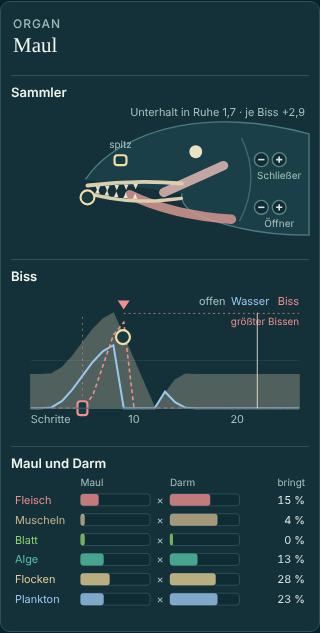
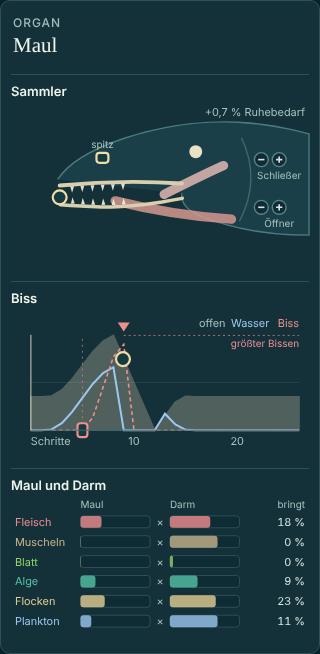
Entwurf: Unterhalt in den Kopfzeilen als Anteil am Ruhebedarf (Maul, Kiemen, Seitenflossen, Schwimmblase); erfundene Preise je Biss und Schlag entfernt (LEITLINIE 5)
Claude-Session: https://claude.ai/code/session_01SAD6gcsuZjdDe9bFzLa7Yk

diff --git a/entwuerfe/inspektoren.html b/entwuerfe/inspektoren.html
@@ -1161,6 +1161,13 @@ const tail = {
 };
 const SWIM = 200, STEPS = 300, MOST_CELLS = 8;
 const forceOf = f => .4 * Math.pow(2.5 / .4, f);
+// Upkeep as a share of a grown fish's rest need (0,0333 a step, physiology.hh:42–50): a muscle
+// group of strength n/16 has tissue 4·n/16 and costs .0004 × fibre upkeep (1,2 slow … 0,3 fast)
+// per unit (body_plan.cc:50–58, brain_interface.hh:164); bladder, gland, pigment and spines
+// count their strength only.
+const upkeepOf = f => 1.2 * Math.pow(.3 / 1.2, f);
+const restPct = x => 100 * x / .06;
+const musclePct = (n, f) => restPct(.0004 * upkeepOf(f) * n / 4);
 const fibreColour = f => { const lo = [184, 68, 63], hi = [242, 235, 226]; return 'rgb(' + lo.map((v, i) => Math.round(v + (hi[i] - v) * f)).join(',') + ')'; };
 const driveOf = (n, c) => c <= n.gate ? 0 : Math.tanh(3 * (c - n.gate)) / Math.tanh(3 * (1 - n.gate));
 // A bundle's force and its fast fibres' reserve: pulling for SWIM steps, then resting.
@@ -1804,7 +1811,7 @@ const BLADFILM = {fish : null};
 function drawBladder() {
   const svg = document.getElementById('bladfish'); svg.replaceChildren();
   const B = BLAD, redraw = drawBladder, c = B.cap;
-  txt(svg, 296, 12, `Unterhalt ${fmt(.0004 * c * 1000)} ‰ · Gewicht +${fmt(.7 * c)} %`, {'text-anchor' : 'end'});
+  txt(svg, 296, 12, `+${fmt(restPct(.0004 * c))} % Ruhebedarf · +${fmt(.7 * c)} % Gewicht`, {'text-anchor' : 'end'});
   const body = el('g', {transform : 'translate(30 14) scale(.86 .9)'}, svg);
   el('path', {d : BODY, fill : '#1b3f48', stroke : '#4a7c7e', 'vector-effect' : 'non-scaling-stroke', 'stroke-width' : 1.4}, body);
   el('circle', {cx : 30, cy : 52, r : 3.2, fill : '#e9e2c6'}, body);
@@ -1899,10 +1906,10 @@ function drawGills() {
   const svg = document.getElementById('gillhead'); svg.replaceChildren();
   const G = GILL, redraw = drawGills, d = G.density;
   const pump = Math.min(1, 2 * effForce(G.cells * forceOf(G.fast)));
-  const rest = G.cells * Math.pow(.25, G.fast) * .48;
+  const rest = musclePct(G.cells, G.fast);
   const kind = d < .25 ? 'Schlinger' : d < .75 ? 'Bodensieber' : 'Planktonfilterer';
   document.getElementById('gill-kind').textContent = kind;
-  txt(svg, 296, 12, `Unterhalt in Ruhe ${fmt(rest)} · Wasser staut im Maul ×${fmt(1 / rakerPass(d))}`, {'text-anchor' : 'end'});
+  txt(svg, 296, 12, `+${fmt(rest)} % Ruhebedarf · Wasser staut im Maul ×${fmt(1 / rakerPass(d))}`, {'text-anchor' : 'end'});
   // The head, cut open: snout left, mouth cavity, the gill arch behind it, the cover over it.
   el('path', {d : 'M18 74 C34 40 140 18 215 18 C255 18 285 26 300 30 V134 C270 134 235 130 205 120 C175 110 120 104 18 84 Z', fill : '#1b3f48', stroke : '#4a7c7e', 'stroke-width' : 1.4}, svg);
   el('path', {d : 'M26 70 C60 60 110 58 150 64 L150 98 C110 100 60 92 26 76 Z', fill : '#0f2c34'}, svg);
@@ -2325,10 +2332,10 @@ function drawMouth() {
   const m = MOUTH, run = MOUTHFILM.run = mouthRun(), p = mouthPower();
   const svg = document.getElementById('mouthhead'); svg.replaceChildren();
   // Head line: what kind of mouth, what it costs.
-  const rest = (m.open.cells * Math.pow(.25, m.open.fast) + m.bite.cells * Math.pow(.25, m.bite.fast)) * .48;
+  const rest = musclePct(m.open.cells, m.open.fast) + musclePct(m.bite.cells, m.bite.fast);
   const kind = mouthChain().sort((x, y) => y[1] * y[2] - x[1] * x[2])[0][4];
   document.getElementById('mouth-kind').textContent = kind;
-  txt(svg, 296, 12, `Unterhalt in Ruhe ${fmt(rest)} · je Biss +${fmt((m.bite.cells * forceOf(m.bite.fast) + m.open.cells * forceOf(m.open.fast)) * .3)}`, {'text-anchor' : 'end'});
+  txt(svg, 296, 12, `+${fmt(rest)} % Ruhebedarf`, {'text-anchor' : 'end'});
   MOUTHFILM.g = el('g', {}, svg);
   const geo = mouthHead(MOUTHFILM.g, run.out[0].opening);
   // Grips: the lower jaw's tip for its length; the front tooth for its form (up: sharp).
@@ -2445,8 +2452,8 @@ const topX = u => TOP.x0 + (TOP.x1 - TOP.x0) * u;
 function drawFins() {
   const svg = document.getElementById('finfish'); svg.replaceChildren();
   const F = FINS, redraw = drawFins, all = F.fins.flatMap(f => f.groups);
-  const rest = all.reduce((t, g) => t + 2 * g.cells * Math.pow(.25, g.fast), 0) * .48;
-  txt(svg, 296, 12, `Unterhalt in Ruhe ${fmt(rest)} · je Schlag +${fmt(all.reduce((t, g) => t + 2 * groupForce(g), 0) * .3)}`, {'text-anchor' : 'end'});
+  const rest = all.reduce((t, g) => t + 2 * musclePct(g.cells, g.fast), 0);
+  txt(svg, 296, 12, `+${fmt(rest)} % Ruhebedarf`, {'text-anchor' : 'end'});
   const pts = Array.from({length : 41}, (_, k) => k / 40);
   el('path', {d : 'M' + pts.map(u => `${topX(u).toFixed(1)} ${(TOP.y - topHalf(u)).toFixed(1)}`).join(' L') + ' L' + [...pts].reverse().map(u => `${topX(u).toFixed(1)} ${(TOP.y + topHalf(u)).toFixed(1)}`).join(' L') + ' Z', fill : '#1b3f48', stroke : '#4a7c7e', 'stroke-width' : 1.4}, svg);
   el('path', {d : `M${topX(1)} ${TOP.y} l18 -12 v24 z`, fill : '#1b3f48', stroke : '#4a7c7e', 'stroke-width' : 1.4}, svg);
